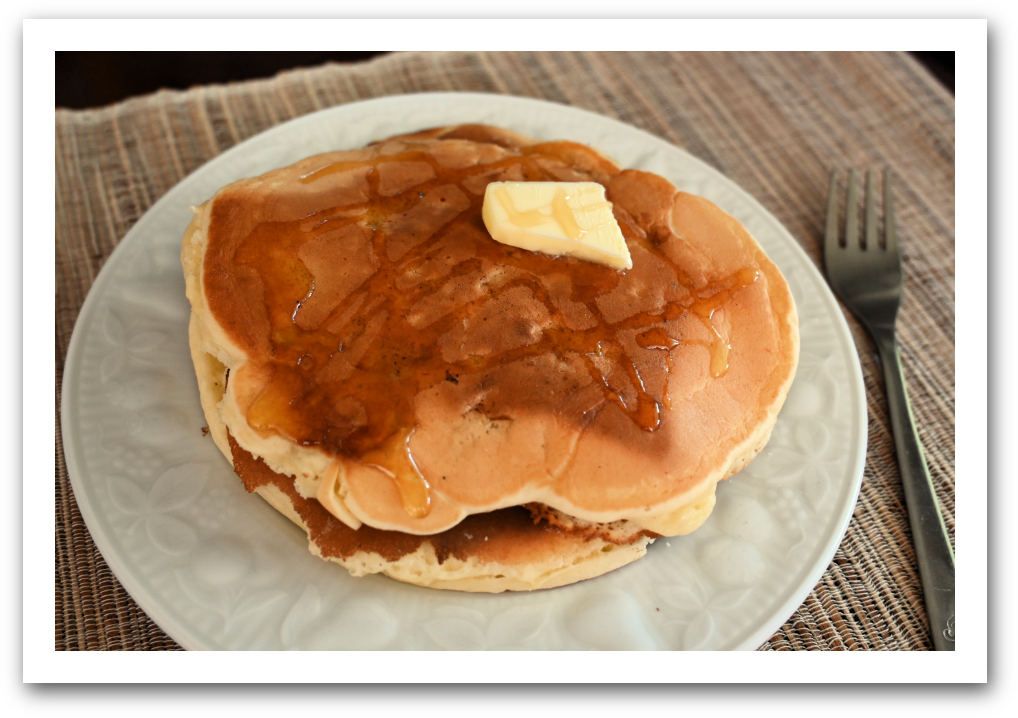
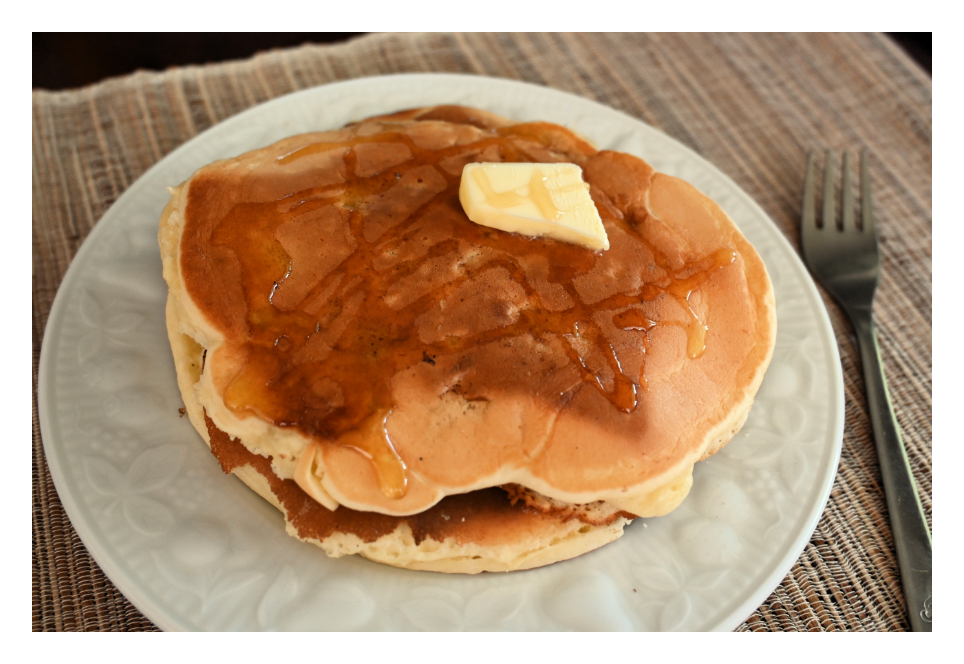
写真を更新 (2026-10-19 14:51)

diff --git a/index.html b/index.html
@@ -81,7 +81,7 @@
         <img src="images/food/dsc_1644.jpg" alt="作品写真" loading="lazy">
         <img src="images/food/20260613.jpg" alt="作品写真" loading="lazy">
         <img src="images/food/img02089.jpg" alt="作品写真" loading="lazy">
-        <img src="images/food/DSC_1948-stamp.png" alt="作品写真" loading="lazy">
+        <img src="images/food/DSC_1948-stamp.png" class="stamp" alt="作品写真" loading="lazy">
         <!-- AUTO-GENERATED:food:END -->
       </div>
     </section>

diff --git a/style.css b/style.css
@@ -242,6 +242,13 @@ section h2.gallery-category {
   object-fit: cover;
 }
 
+/* 切手風の写真:白フチごと1枚の写真として扱い、輪郭がわかるよう薄い影をつける */
+.gallery-grid img.stamp {
+  flex-grow: 0;
+  object-fit: contain;
+  box-shadow: 0 1px 6px rgba(0, 0, 0, 0.28);
+}
+
 .gallery-grid::after {
   content: "";
   flex-grow: 999;
